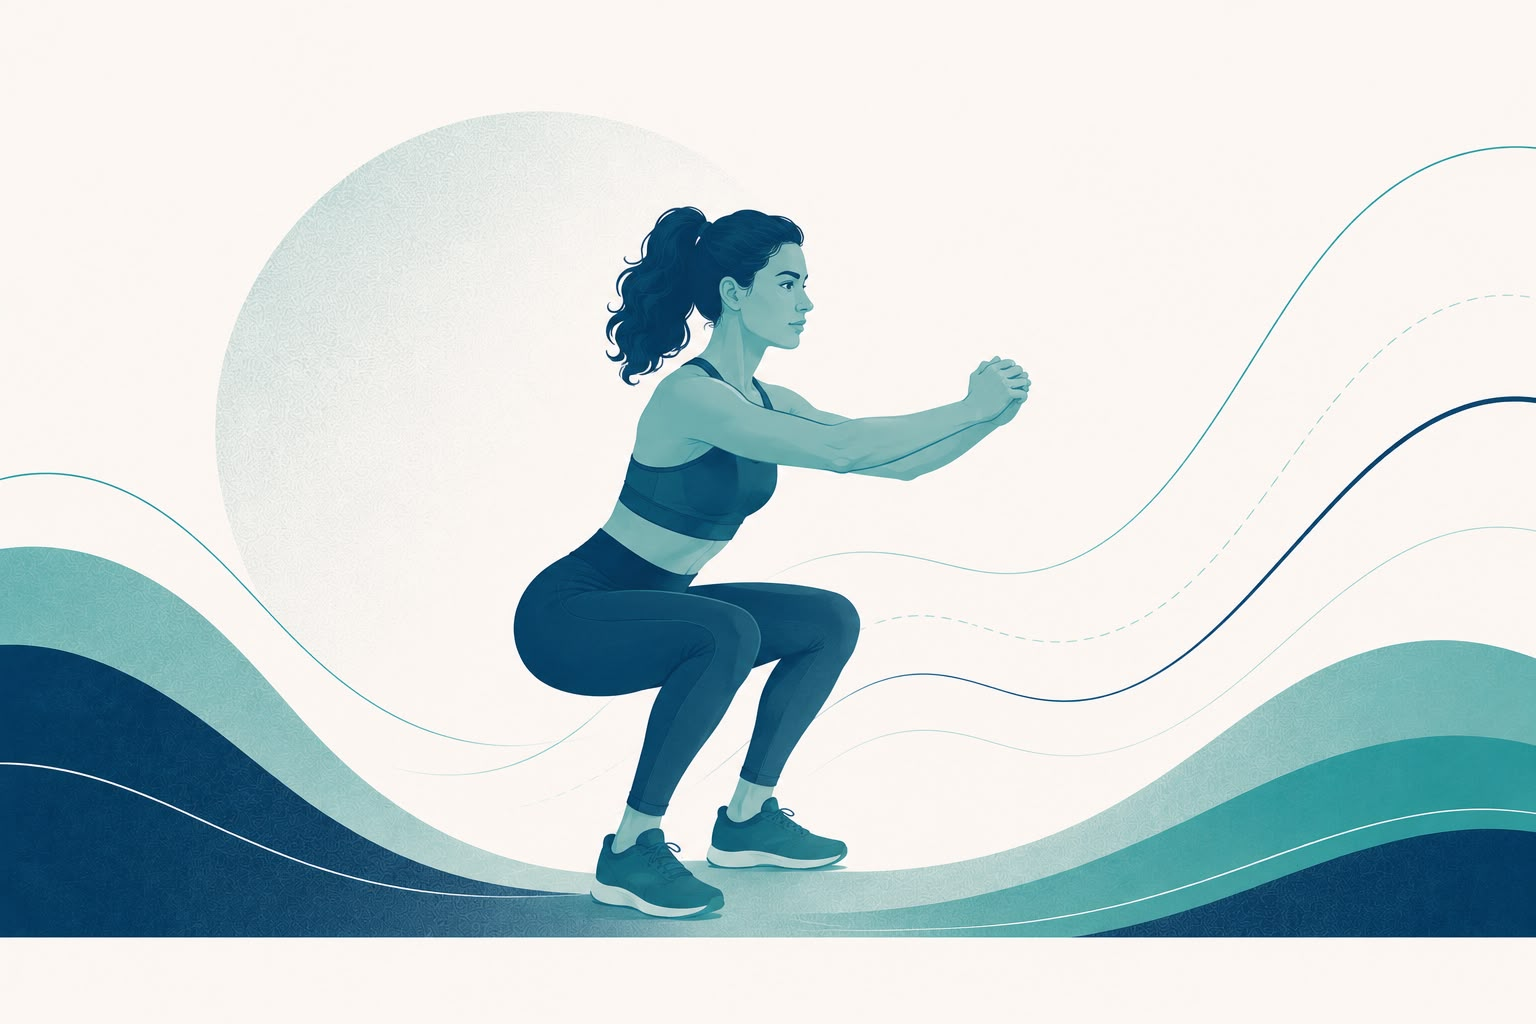
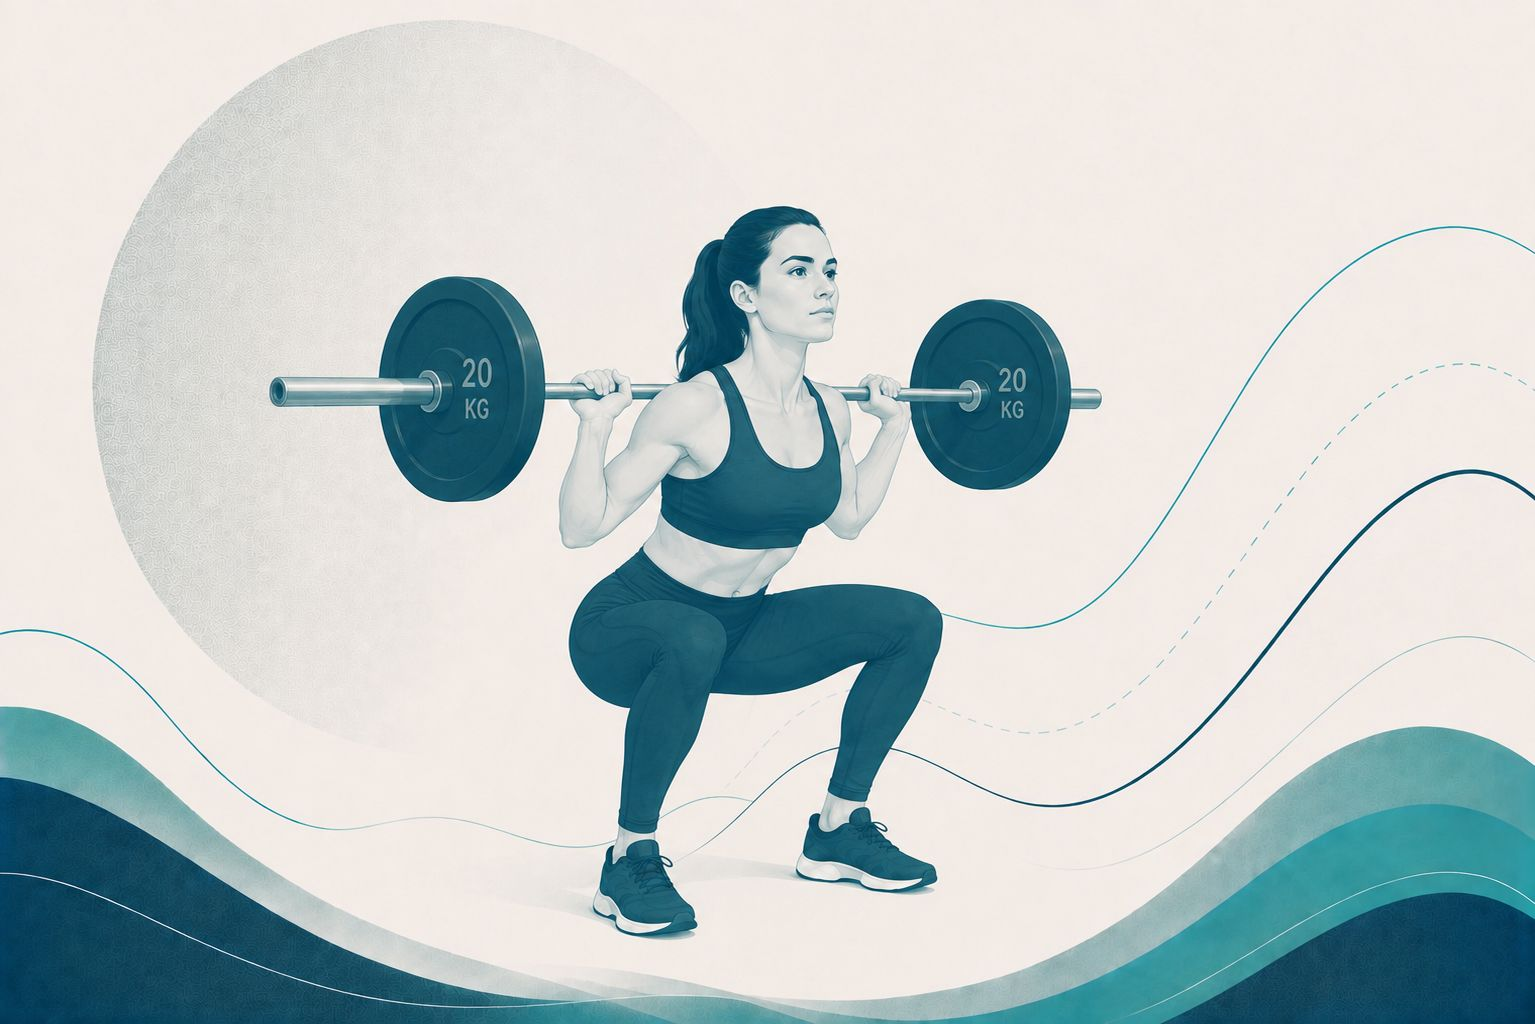
feat: aggiunta nuovi esercizi

diff --git a/src/lib/exercises.js b/src/lib/exercises.js
@@ -140,6 +140,18 @@ export const EXERCISES = [
     category: "spalle",
     image: "/images/exercises/alzate-laterali.jpg",
   },
+  {
+    key: "alazate-testa-manubri-panca",
+    name: "Alzate sulla Testa Manubri su Panca",
+    category: "spalle",
+    image: "/images/exercises/alzate-testa-manubri-panca.jpg",
+  },
+  {
+    key: "tirate-petto",
+    name: "Tirate al Petto",
+    category: "spalle",
+    image: "/images/exercises/tirate-petto.jpg",
+  },
 
   // BRACCIA
   {
@@ -148,12 +160,7 @@ export const EXERCISES = [
     category: "braccia",
     image: "/images/exercises/push-down-corda.jpg",
   },
-  {
-    key: "alazate-testa-manubri-panca",
-    name: "Alzate sulla Testa Manubri su Panca",
-    category: "braccia",
-    image: "/images/exercises/alzate-testa-manubri-panca.jpg",
-  },
+
   {
     key: "curl-panca-scott-bilanciere",
     name: "Curl Panca Scott Bilanciere",
